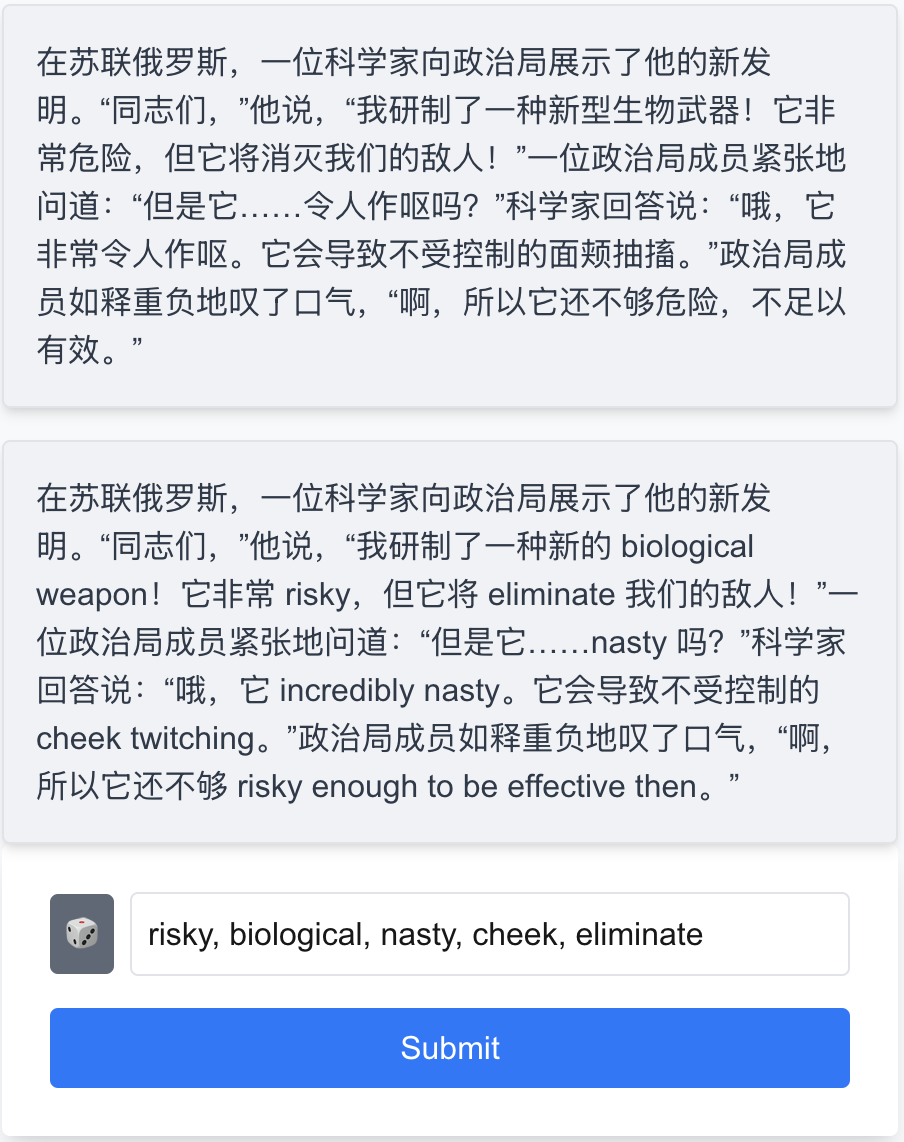
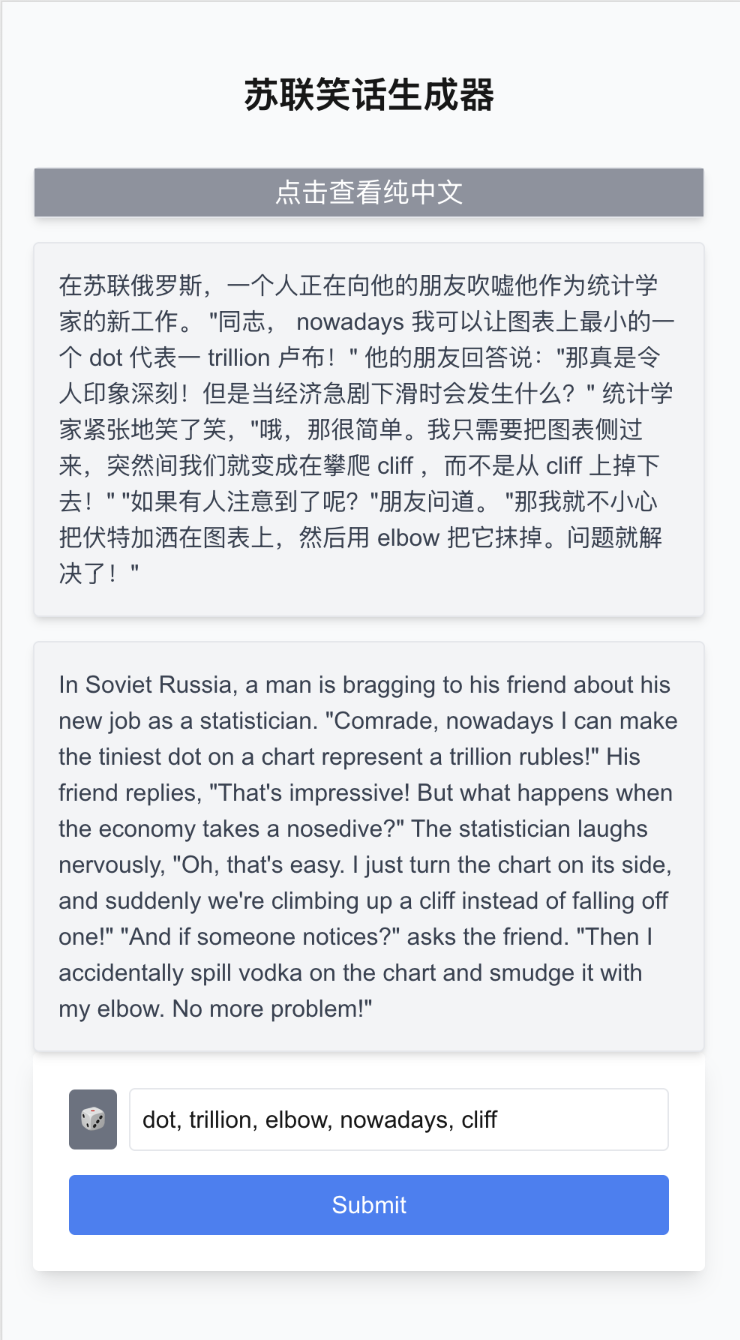
feat: Soviet joke

Changed region(s): [[0.0311, 0.0306, 0.9635, 1.0]]

diff --git a/src/pages/api/gen.ts b/src/pages/api/gen.ts
@@ -11,12 +11,13 @@ async function generate(words: string): Promise<{ result: string, chineseResult:
 你是一个英语学习助手，你负责为用户生成一个苏联笑话，但是保留指定单词的英文格式。
   - step1: 生成中英文的苏联笑话。
   - step2: 从上一步的中文结果中，按指定单词的顺序，将英文单词翻译成中文。
+  - step3: 从上一步的结果中，检查中文和英文单词是否正确。其中中文单词必须是出现在中文结果中。如果用户输入的单词是在词组中，保留词组的格式。
 输出格式参考output_example。输出格式为xml格式，最终结果放在result里。
 </instruction>
-<input_example>
+<input_example1>
 run,walk,ride bicycle,sit,hike
-</input_example>
-<output_example>
+</input_example1>
+<output_example1>
   <step1>
     <english>
       In Soviet Russia, a man complains to his friend:
@@ -39,7 +40,51 @@ run,walk,ride bicycle,sit,hike
     <english_words>run,walk,ride bicycle,sit,hike</english_words>
     <chinese_words>跑步,步行,骑自行车,坐,徒步旅行</chinese_words>
   </step3_fixed>
-</output_example>
+</output_example1>
+
+<input_example1>
+assign, neutral, beneficial, dominant, registration
+</input_example1>
+<output_example2>
+  <step1>
+    <english>
+      In Soviet Russia, a man applies for a new job.  The interviewer asks, "Comrade, your application states you have a neutral political stance. Is this accurate?" The man replies, "Absolutely! I believe in a beneficial system for all." The interviewer raises an eyebrow. "And what if the dominant party disagrees with your beneficial ideas?" The man nervously adjusts his collar. "Then," he whispers, "I'll register my disagreement... privately."
+    </english>
+    <chinese>
+      在苏联俄罗斯，一个人申请一份新工作。面试官问：“同志，你的申请上写着你持中立的政治立场。这是准确的吗？”这个人回答说：“当然！我相信对所有人都有利的制度。”面试官扬起了眉毛。“如果执政党不同意你那些有利的想法呢？”这个人紧张地整理了一下衣领。“那么，”他低声说，“我会私下注册我的异议……”
+    </chinese>
+  </step1>
+  <step2_translated>
+    <english_words>assign, neutral, beneficial, dominant, registration</english_words>
+    <chinese_words>分配,中立的,有利的,主要的,注册</chinese_words>
+  </step2_translated>
+  <step3_fixed>
+    <english_words>assign, neutral, beneficial, dominant party, register</english_words>
+    <chinese_words>分配,中立的,有利的,执政党,注册</chinese_words>
+  </step3_fixed>
+</output_example2>
+
+<input_example3>
+candle, ownership, incentive, identical, reasonably
+</input_example3>
+<ouput_example3>
+  <step1>
+    <english>
+      In Soviet Russia, two men are comparing their apartments.  "Comrade," says the first, "I have a lovely apartment.  It's reasonably spacious, and I even have a candle for when the electricity goes out." The second man scoffs, "Reasonably spacious?  Comrade, my apartment is identical to yours, except I own two candles!  The incentive to save electricity is clearly lacking in our system."
+    </english>
+    <chinese>
+      在苏联俄罗斯，两个人正在比较他们的公寓。“同志，”第一个人说，“我有一套可爱的公寓。它相当宽敞，甚至还有一根蜡烛以备停电时使用。”第二个人嘲笑说：“相当宽敞？同志，我的公寓和你的一样，除了我拥有两根蜡烛！在我们这个体系中，节约用电的动力显然不足。”
+    </chinese>
+  </step1>
+  <step2_translated>
+    <english_words>candle, ownership, incentive, identical, reasonably</english_words>
+    <chinese_words>蜡烛,拥有,动力,一样的,相当</chinese_words>
+  </step2_translated>
+  <step3_fixed>
+    <english_words>candle, own, incentive, identical, reasonably</english_words>
+    <chinese_words>蜡烛,拥有,动力,一样,相当</chinese_words>
+  </step3_fixed>
+</ouput_example3>
 <input>
   ${words}
 </input>`;

diff --git a/src/components/Form.tsx b/src/components/Form.tsx
@@ -59,7 +59,7 @@ export default function Home() {
               className="absolute inset-0 bg-gray-500 bg-opacity-75 flex items-center justify-center cursor-pointer"
               onClick={() => setShowOverlay(false)}
             >
-              <span className="text-white text-lg">点击查看结果</span>
+              <span className="text-white text-lg">点击查看纯中文</span>
             </div>
           )}
           {!showOverlay && (
